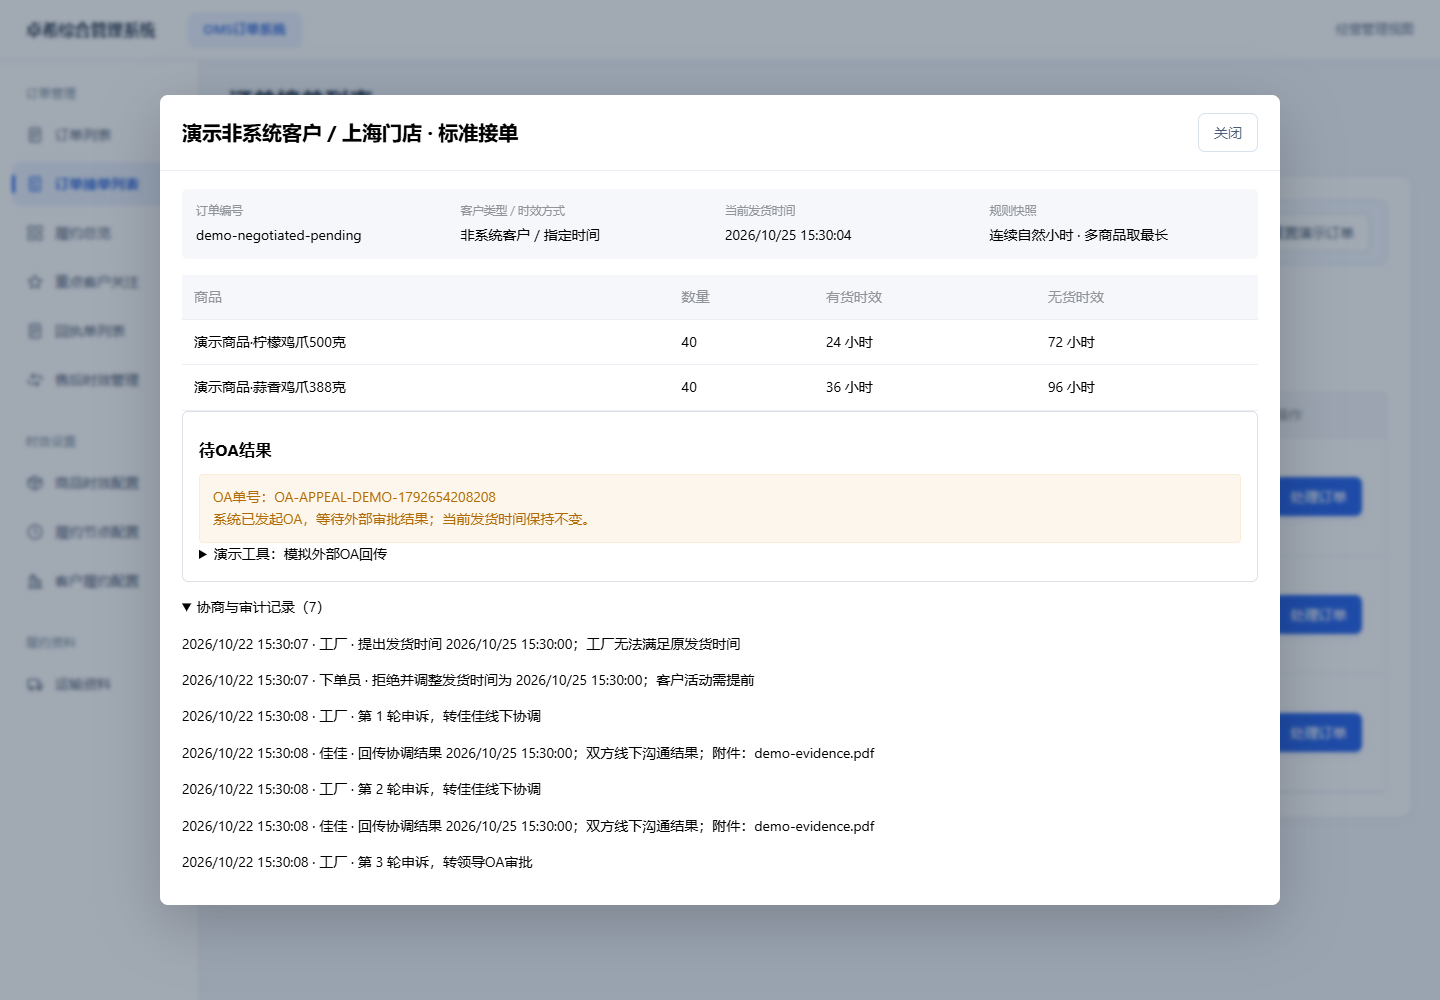
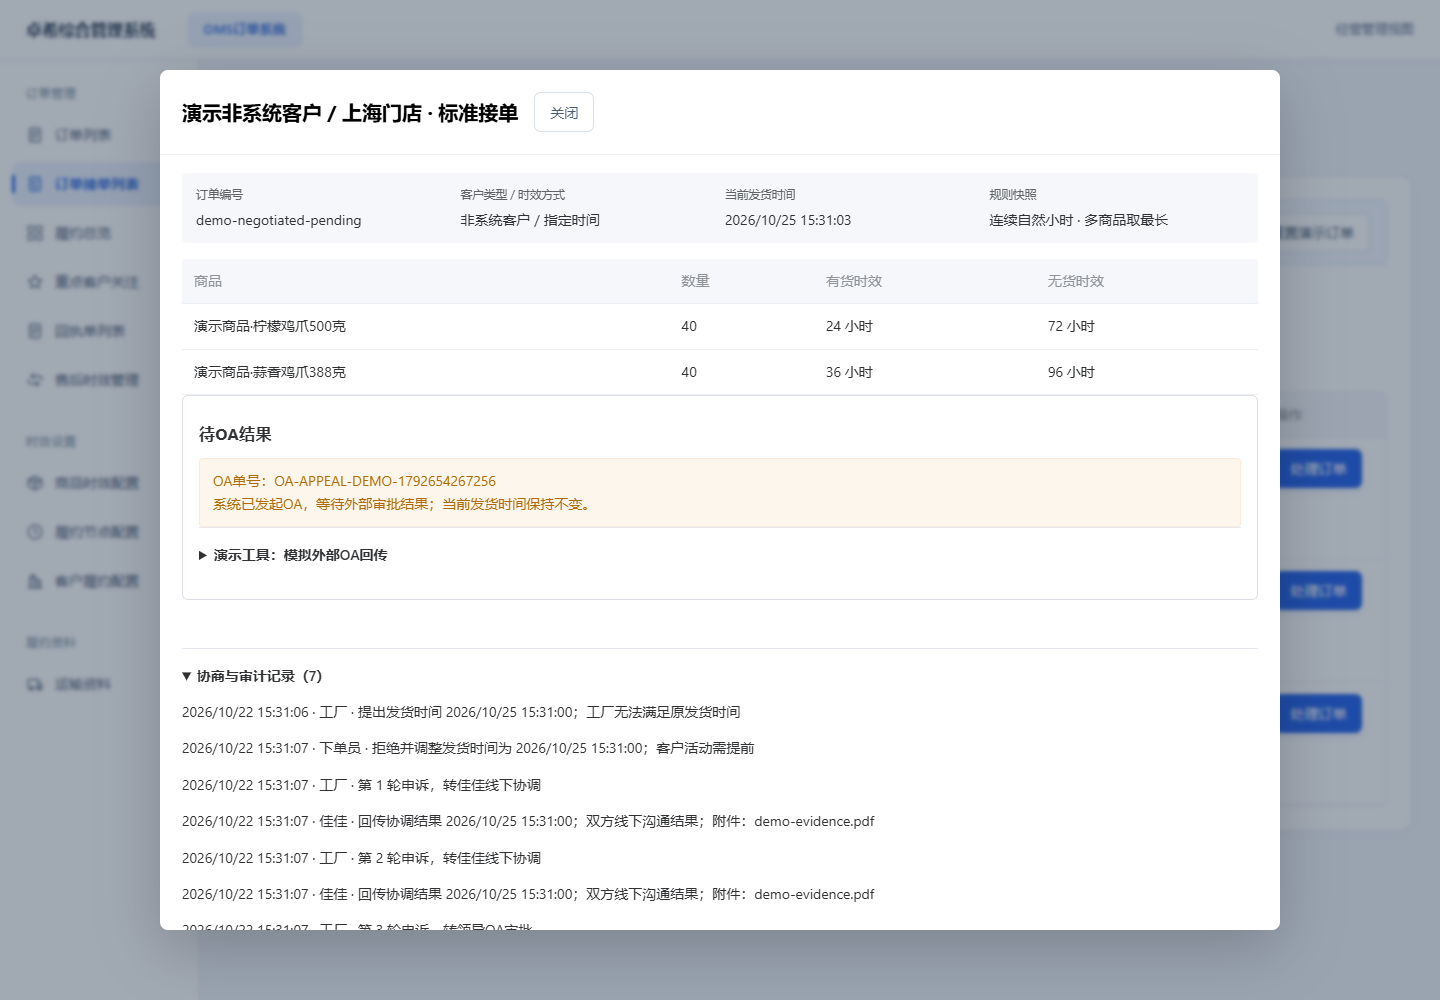
Auto sync 2026-10-22 15:31:22

diff --git a/09-设计与原型/19-订单履约时效管理原型V3/发货时效预警策略.html b/09-设计与原型/19-订单履约时效管理原型V3/发货时效预警策略.html
@@ -48,7 +48,7 @@ body{font-family:"Microsoft YaHei","PingFang SC",Arial,sans-serif;font-size:14px
 .board-metrics{display:grid;grid-template-columns:repeat(5,minmax(0,1fr));gap:14px;margin:16px 0 22px}.board-metrics .metric{min-width:0}.board-flow{display:grid;grid-template-columns:2fr 4fr;gap:18px}.board-flow h3{font-size:14px;margin:0 0 12px;color:#606266}.board-parallel{border:1px solid #b3d8ff;border-radius:4px;background:#f5faff;padding:14px}.board-parallel>div{display:grid;grid-template-columns:1fr 1fr;gap:12px}.board-sequence{padding:14px 0}.board-sequence>div{display:grid;grid-template-columns:repeat(4,minmax(0,1fr));gap:12px}.board-flow .stage{width:100%;min-width:0;padding:14px}.board-flow .stage-foot{line-height:1.6;font-size:12px;white-space:normal}.board-table-wrap{overflow:auto}.board-table{width:100%;min-width:1220px;border-collapse:collapse;font-size:14px}.board-table th{background:#f5f7fa;color:#909399;font-weight:400;white-space:nowrap}.board-table th,.board-table td{padding:14px 12px;border-bottom:1px solid #ebeef5;text-align:left;vertical-align:top;line-height:1.8}.board-table td:first-child{max-width:230px}.board-table small{color:#909399}.board-table summary{color:#409eff;cursor:pointer;white-space:nowrap}.board-products{max-width:280px;min-width:200px}.board-table td>div+div{margin-top:6px}.board-table .orders-toggle{margin-top:8px}@media(max-width:1200px){.board-flow{grid-template-columns:1fr}.board-metrics{grid-template-columns:repeat(3,minmax(0,1fr))}}@media(max-width:640px){.board-metrics,.board-sequence>div{grid-template-columns:repeat(2,minmax(0,1fr))}}
 </style><style>
 .clarity-metrics{display:grid;grid-template-columns:repeat(4,minmax(0,1fr));gap:16px;margin:16px 0}.clarity-metrics .metric{min-width:0}.clarity-attention{display:flex;gap:12px;align-items:center;flex-wrap:wrap;margin:4px 0 22px;font-size:14px;color:#909399}.clarity-attention button{font:inherit;border:1px solid #e4e7ed;padding:6px 12px;border-radius:4px;background:#fff;color:#606266;cursor:pointer}.clarity-attention button.selected{background:#ecf5ff;border-color:#409eff;color:#409eff}.clarity-attention b{margin-left:7px}.clarity-node-heading{display:flex;align-items:center;justify-content:space-between;gap:12px;flex-wrap:wrap;margin-bottom:14px}.clarity-node-heading h3{font-size:16px;margin:0}.clarity-node-heading>span{font-size:13px;color:#909399}.clarity-stages{display:grid;grid-template-columns:repeat(6,minmax(0,1fr));gap:12px;margin-bottom:22px}.clarity-stages .stage{min-width:0;padding:16px 12px}.clarity-stages .stage-top{gap:6px;flex-wrap:wrap}.clarity-stages .stage-top>b{font-size:14px}.clarity-stages .stage-foot{font-size:13px;margin-top:12px}.clarity-counts{display:flex;gap:5px;justify-content:space-between;font-size:12px;margin-top:12px;flex-wrap:wrap}.clarity-counts b{font-weight:500}.clarity-counts .warning{color:#e6a23c}.clarity-counts .overdue{color:#f56c6c}.clarity-order-info{padding:12px 18px;display:flex;flex-wrap:wrap;gap:10px 24px;align-items:center;background:#f5faff;border-bottom:1px solid #ebeef5;font-size:14px}.clarity-task{display:inline-block;margin-left:12px}.clarity-order-list .oms-order-head .sla-clock{font-weight:500}.clarity-order-list .oms-product{min-height:132px}.clarity-order-list .oms-product-info{gap:14px;padding:16px}.clarity-order-list .oms-order-foot{padding:10px 18px}@media(max-width:1250px){.clarity-stages{grid-template-columns:repeat(3,minmax(0,1fr))}}@media(max-width:760px){.clarity-metrics,.clarity-stages{grid-template-columns:repeat(2,minmax(0,1fr))}.clarity-node-heading>span{line-height:1.7}.clarity-attention{gap:8px}}
-</style><link rel="stylesheet" href="履约界面主题.css?v=3"><link rel="stylesheet" href="售后时效管理.css?v=1"><link rel="stylesheet" href="履约V2扩展.css?v=4"><script defer src="售后时效管理.js?v=1"></script><script defer src="侧边栏菜单.js?v=2"></script><script defer src="履约V2扩展.js?v=4"></script><script defer src="统一接单.js"></script></head>
+</style><link rel="stylesheet" href="履约界面主题.css?v=3"><link rel="stylesheet" href="售后时效管理.css?v=1"><link rel="stylesheet" href="履约V2扩展.css?v=4"><script defer src="售后时效管理.js?v=1"></script><script defer src="侧边栏菜单.js?v=2"></script><script defer src="履约V2扩展.js?v=4"></script><link rel="stylesheet" href="统一接单.css"><script defer src="统一接单.js"></script></head>
 <body class="sla-polished">
 <header class="topbar"><div class="brand"><span>卓希综合管理系统</span><span class="oms-system">OMS订单系统</span></div><small>经营管理视图</small></header>
 <nav class="sla-sidebar" aria-label="履约管理导航"><div class="sla-nav-group"><h2 class="sla-nav-heading">订单管理</h2><a class="sla-nav-item" data-group="orders" href="发货时效预警策略.html#orders"><svg class="sla-nav-icon" viewBox="0 0 24 24" aria-hidden="true"><rect x="5" y="3" width="14" height="18" rx="2"/><path d="M8 8h8M8 12h8M8 16h5"/></svg><span>订单列表</span></a><a id="navAcceptance" class="sla-nav-item" data-group="accept" href="发货时效预警策略.html#accept"><svg class="sla-nav-icon" viewBox="0 0 24 24" aria-hidden="true"><rect x="5" y="3" width="14" height="18" rx="2"/><path d="M8 8h8M8 12h4m-3 4 2 2 4-4"/></svg><span>订单接单列表</span></a><a id="navFlow" class="sla-nav-item active" data-group="flow" href="发货时效预警策略.html#flow" aria-current="page"><svg class="sla-nav-icon" viewBox="0 0 24 24" aria-hidden="true"><rect x="3" y="3" width="7" height="7" rx="1"/><rect x="14" y="3" width="7" height="7" rx="1"/><rect x="3" y="14" width="7" height="7" rx="1"/><rect x="14" y="14" width="7" height="7" rx="1"/></svg><span>履约总览</span></a></div><div class="sla-nav-group"><h2 class="sla-nav-heading">时效设置</h2><a id="sideProducts" class="sla-nav-item" data-group="products" href="商品发货时效配置.html#products"><svg class="sla-nav-icon" viewBox="0 0 24 24" aria-hidden="true"><path d="m12 3 9 5v8l-9 5-9-5V8zM3 8l9 5 9-5M12 13v8M7.5 5.5l9 5"/></svg><span>商品时效配置</span></a><a id="sideNodes" class="sla-nav-item" data-group="nodes" href="履约节点配置.html"><svg class="sla-nav-icon" viewBox="0 0 24 24" aria-hidden="true"><circle cx="12" cy="12" r="9"/><path d="M12 7v5l3 2"/></svg><span>履约节点配置</span></a><a id="navCustomers" class="sla-nav-item" data-group="customers" href="客户履约配置.html"><svg class="sla-nav-icon" viewBox="0 0 24 24" aria-hidden="true"><path d="M3 21h18M5 21V7h8v14M13 11h6v10M7 4h4v3M8 10h2M8 14h2M8 18h2M16 14h1M16 18h1"/></svg><span>客户履约配置</span></a></div></nav>

diff --git a/09-设计与原型/19-订单履约时效管理原型V3/统一接单.js b/09-设计与原型/19-订单履约时效管理原型V3/统一接单.js
@@ -40,7 +40,7 @@ window.uChange=()=>safeAction(()=>{const o=order();o.pendingTime=inputTime();con
 window.uAppeal=()=>{const o=order();o.round++;if(o.round<=2)o.status='待佳佳协调';else{o.status='待OA结果';o.oa='OA-APPEAL-DEMO-'+Date.now()}audit(o,'工厂','第 '+o.round+' 轮申诉，转'+(o.round<=2?'佳佳线下协调':'领导OA审批'));uOpen(active)};
 window.uReturn=()=>safeAction(()=>{const o=order(),t=inputTime(),r=reason(),file=document.getElementById('uEvidence').files[0];if(!file)throw Error('请上传协调确认附件');if(!/\.(png|jpe?g|pdf)$/i.test(file.name)||file.size>2*1024*1024)throw Error('附件支持PNG、JPG、PDF，单个文件不超过2MB');const reader=new FileReader();reader.onload=()=>{o.pendingTime=t;o.status='待工厂确认';o.evidence={name:file.name,data:reader.result};audit(o,'佳佳','回传协调结果 '+fmt(t)+'；'+r+'；附件：'+file.name);uOpen(active)};reader.onerror=()=>{document.getElementById('uError').textContent='文件读取失败，请重新选择附件'};reader.readAsDataURL(file)});
 window.uAccept=()=>safeAction(()=>{const o=order();if(!o.system&&o.stock==='noStock'&&!o.pendingTime){uNegotiateForm();return}const effective=o.pendingTime||(o.system?o.arrival:o.ship),next=JSON.parse(JSON.stringify(o));if(next.pendingTime){if(next.system)next.arrival=effective;else next.ship=effective}next.acceptedAt=Date.now();next.status='已接单';next.pendingTime=null;next.audit.push({at:next.acceptedAt,actor:'工厂',action:'确认'+(o.stock==='stock'?'有货':'无货')+'接单；'+(o.system?'到货':'发货')+'时间 '+fmt(effective)+' 正式生效'});commitUnifiedAcceptance(next);Object.assign(o,next);save();uOpen(active)});
-window.showAcceptance=id=>uOpen(id);window.renderUnifiedAcceptance=render;
+const legacyAcceptance=window.showAcceptance;window.showAcceptance=(id,...args)=>{if(state.orders.some(o=>o.id===id))return uOpen(id);return legacyAcceptance(id,...args)};window.renderUnifiedAcceptance=render;
 const original=window.render;window.render=function(){if(location.hash==='#accept'){render();return}return original.apply(this,arguments)};
 window.addEventListener('hashchange',()=>{if(location.hash==='#accept')setTimeout(render,0)});setTimeout(render,100);
 })();

diff --git a/09-设计与原型/19-订单履约时效管理原型V3/统一接单.css b/09-设计与原型/19-订单履约时效管理原型V3/统一接单.css
@@ -1,0 +1,1 @@
+#content .v2-table td{vertical-align:top;line-height:1.8}#content .v2-table small{display:block;color:#606266}#unifiedDialog .v2-table{min-width:0}#unifiedDialog button{margin:4px;min-height:40px}#unifiedDialog .v2-field{display:block;margin:12px 0}#unifiedDialog .v2-field>span{color:#606266}#unifiedDialog details{padding:16px 0;border-top:1px solid #e4e7ed}#unifiedDialog summary{cursor:pointer;font-weight:600}#unifiedDialog .v2-modal-body{color:#303133}#unifiedDialog :focus-visible,#content :focus-visible{outline:2px solid #2563eb;outline-offset:3px}#content .v2-tag{color:#2259b0;background:#ecf5ff}#unifiedDialog .error{min-height:20px;color:#b42318}#unifiedDialog .v2-info small{color:#606266}@media(prefers-reduced-motion:reduce){#unifiedDialog *{animation:none!important;transition:none!important}}
